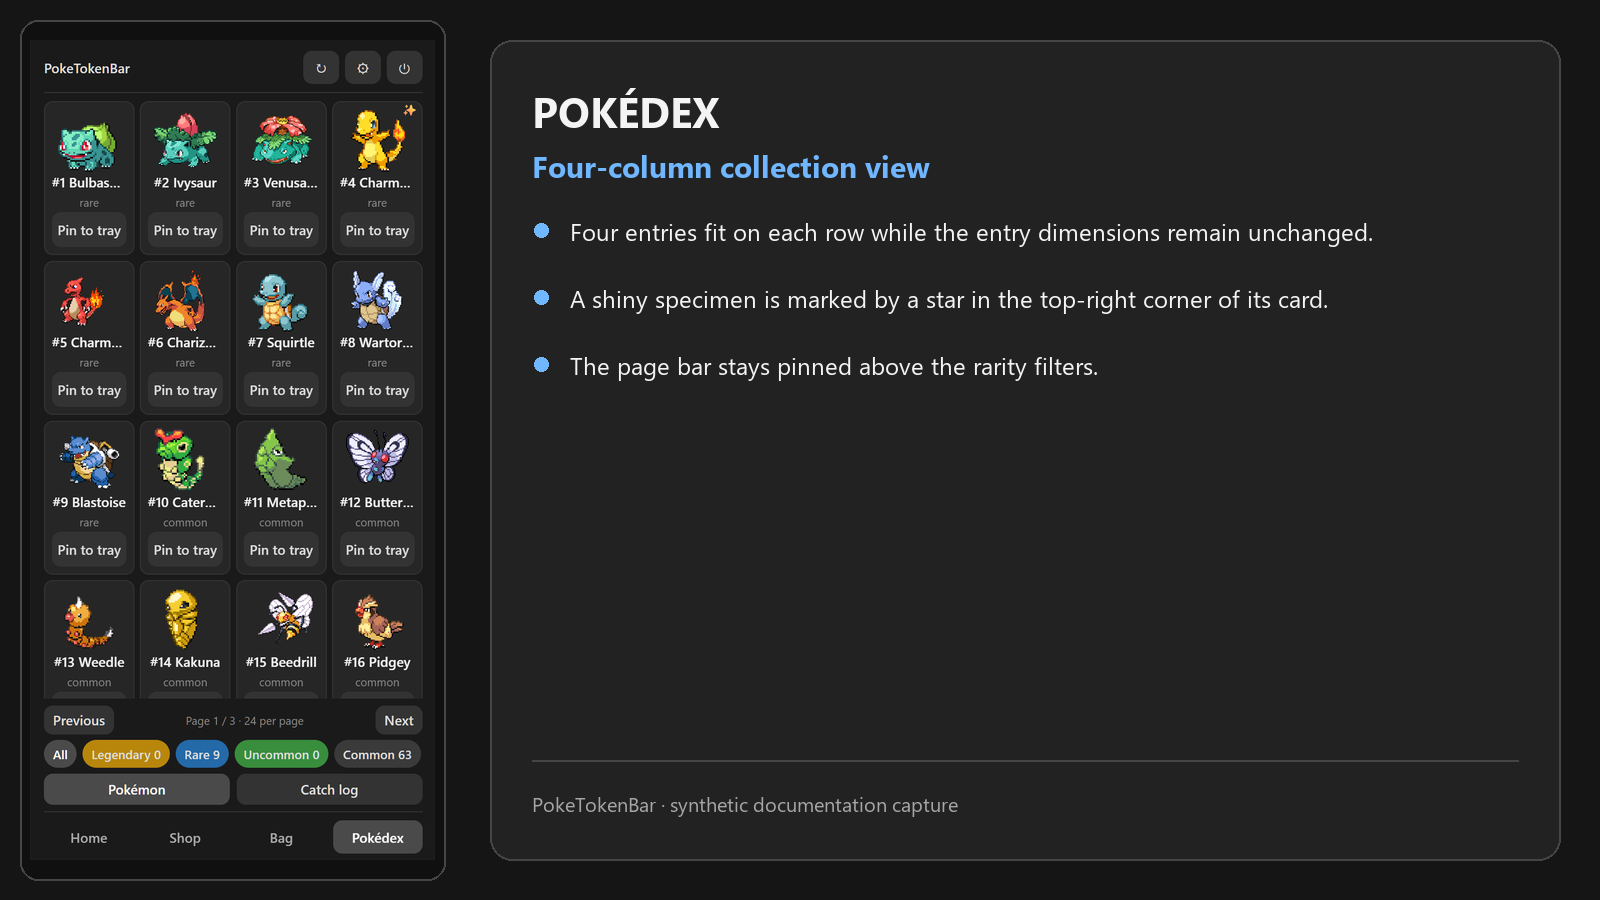
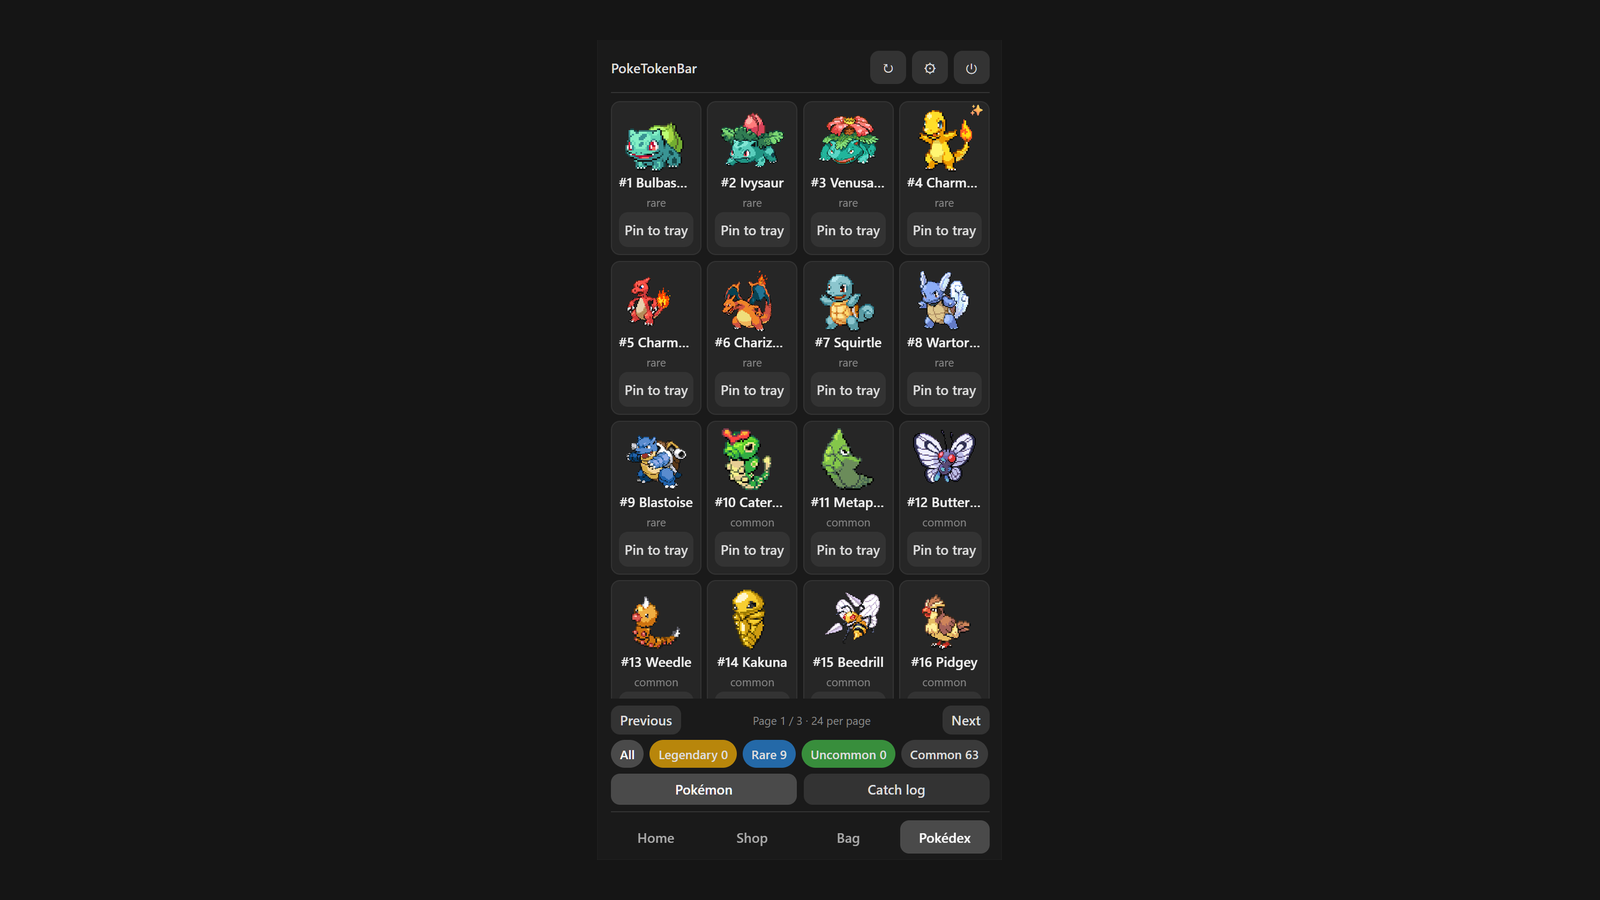
docs: remove screenshot annotation panels

diff --git a/docs/SCREENSHOTS.md b/docs/SCREENSHOTS.md
@@ -6,11 +6,11 @@ This page documents the images used by the release README. Each screenshot is pa
 
 | Screenshot | Feature | Description | Data policy |
 | --- | --- | --- | --- |
-| `screenshot-home.gif` | Home | Animated landscape documentation capture with Pikachu: the Home panel combines the active companion, progress, daily and period usage, provider details, and the limits status. | Synthetic rows, totals, and companion progress only. |
+| `screenshot-home.gif` | Home | Animated landscape app capture with Pikachu: the Home panel combines the active companion, progress, daily and period usage, provider details, and the limits status. | Synthetic rows, totals, and companion progress only. |
 | `tray-and-popover.png` | Tray access | The notification-area icon opens Home without a separate taskbar button. Closing Home leaves the app resident in the tray. | Neutral illustration with no unrelated tray icons, clock, notifications, or personal app names. |
-| `screenshot-shop.png` | Shop | Landscape documentation board showing the three-column item card grid, the three new items, item badges, synthetic prices and the synthetic wallet. | Synthetic wallet and prices only. No billing or account balance. |
-| `screenshot-bag.png` | Bag | Landscape documentation board showing item artwork, the adjacent Poké Doll heart, the silver Incubator badge, the ochre three-star Incense badge and explicit hatch actions. | Synthetic item counts and activation state only. |
-| `screenshot-collection-pokedex.png` | Pokédex | Landscape documentation board showing four entries per row, shiny stars in the top-right of shiny cards, the pinned page bar and rarity filters. | Synthetic species and collection state. |
+| `screenshot-shop.png` | Shop | Landscape app capture showing the three-column item card grid, the three new items, item badges, synthetic prices and the synthetic wallet. | Synthetic wallet and prices only. No billing or account balance. |
+| `screenshot-bag.png` | Bag | Landscape app capture showing item artwork, the adjacent Poké Doll heart, the silver Incubator badge, the ochre three-star Incense badge and explicit hatch actions. | Synthetic item counts and activation state only. |
+| `screenshot-collection-pokedex.png` | Pokédex | Landscape app capture showing four entries per row, shiny stars in the top-right of shiny cards, the pinned page bar and rarity filters. | Synthetic species and collection state. |
 | `screenshot-collection-catchlog.png` | Catch Log | The history view separates the active companion from graduated ones and keeps each evolution chain, nature, rarity, and date together. | Neutral demonstration dates and names only. |
 | `settings.png` + `screenshot-scan-folders.png` | Settings and progression | The two images belong together: the landscape first image shows the current controls, while the second shows the advanced read-only scan-folder area. | `C:\Demo\AI-Logs` is a synthetic path. No personal folders or source databases are used. |
 | `floating-pet.png` | Floating companion | The optional companion window can stay visible independently from Home and outside the taskbar. | Static synthetic Pokémon state with no surrounding desktop content. |
@@ -44,7 +44,7 @@ Additional folders are selected explicitly and read in JSON/JSONL counter-only m
 
 ## Capture method
 
-The current Shop, Bag, Pokédex and primary Settings images are landscape documentation boards built from the packaged app window and a neutral synthetic explanation panel; the app portion is captured from the isolated renderer. Prefer the packaged app launched with an isolated temporary state directory and isolated empty provider roots. If a desktop capture is necessary, use a clean Windows profile or crop and redact the entire surrounding desktop before saving.
+The current Home, Shop, Bag, Pokédex and primary Settings images are clean landscape app captures built from the isolated renderer on a neutral background; they contain no explanatory panels or desktop chrome. Prefer the packaged app launched with an isolated temporary state directory and isolated empty provider roots. If a desktop capture is necessary, use a clean Windows profile or crop and redact the entire surrounding desktop before saving.
 
 Before adding an image:
 

diff --git a/README.md b/README.md
@@ -80,7 +80,7 @@ The screenshots below use synthetic values and neutral demo paths. The updated S
       </td>
       <td class="screenshot-explanation">
         <strong>The place to start.</strong><br>
-        Home brings the active egg or Pokémon, progress toward the next stage, usage totals, provider details, and the limits status into one compact panel. The release capture uses an animated Pikachu companion in a synthetic landscape board. It opens from the tray and does not create a second taskbar button.
+        Home brings the active egg or Pokémon, progress toward the next stage, usage totals, provider details, and the limits status into one compact panel. The release capture uses an animated Pikachu companion in a clean landscape app capture. It opens from the tray and does not create a second taskbar button.
       </td>
     </tr>
     <tr>
